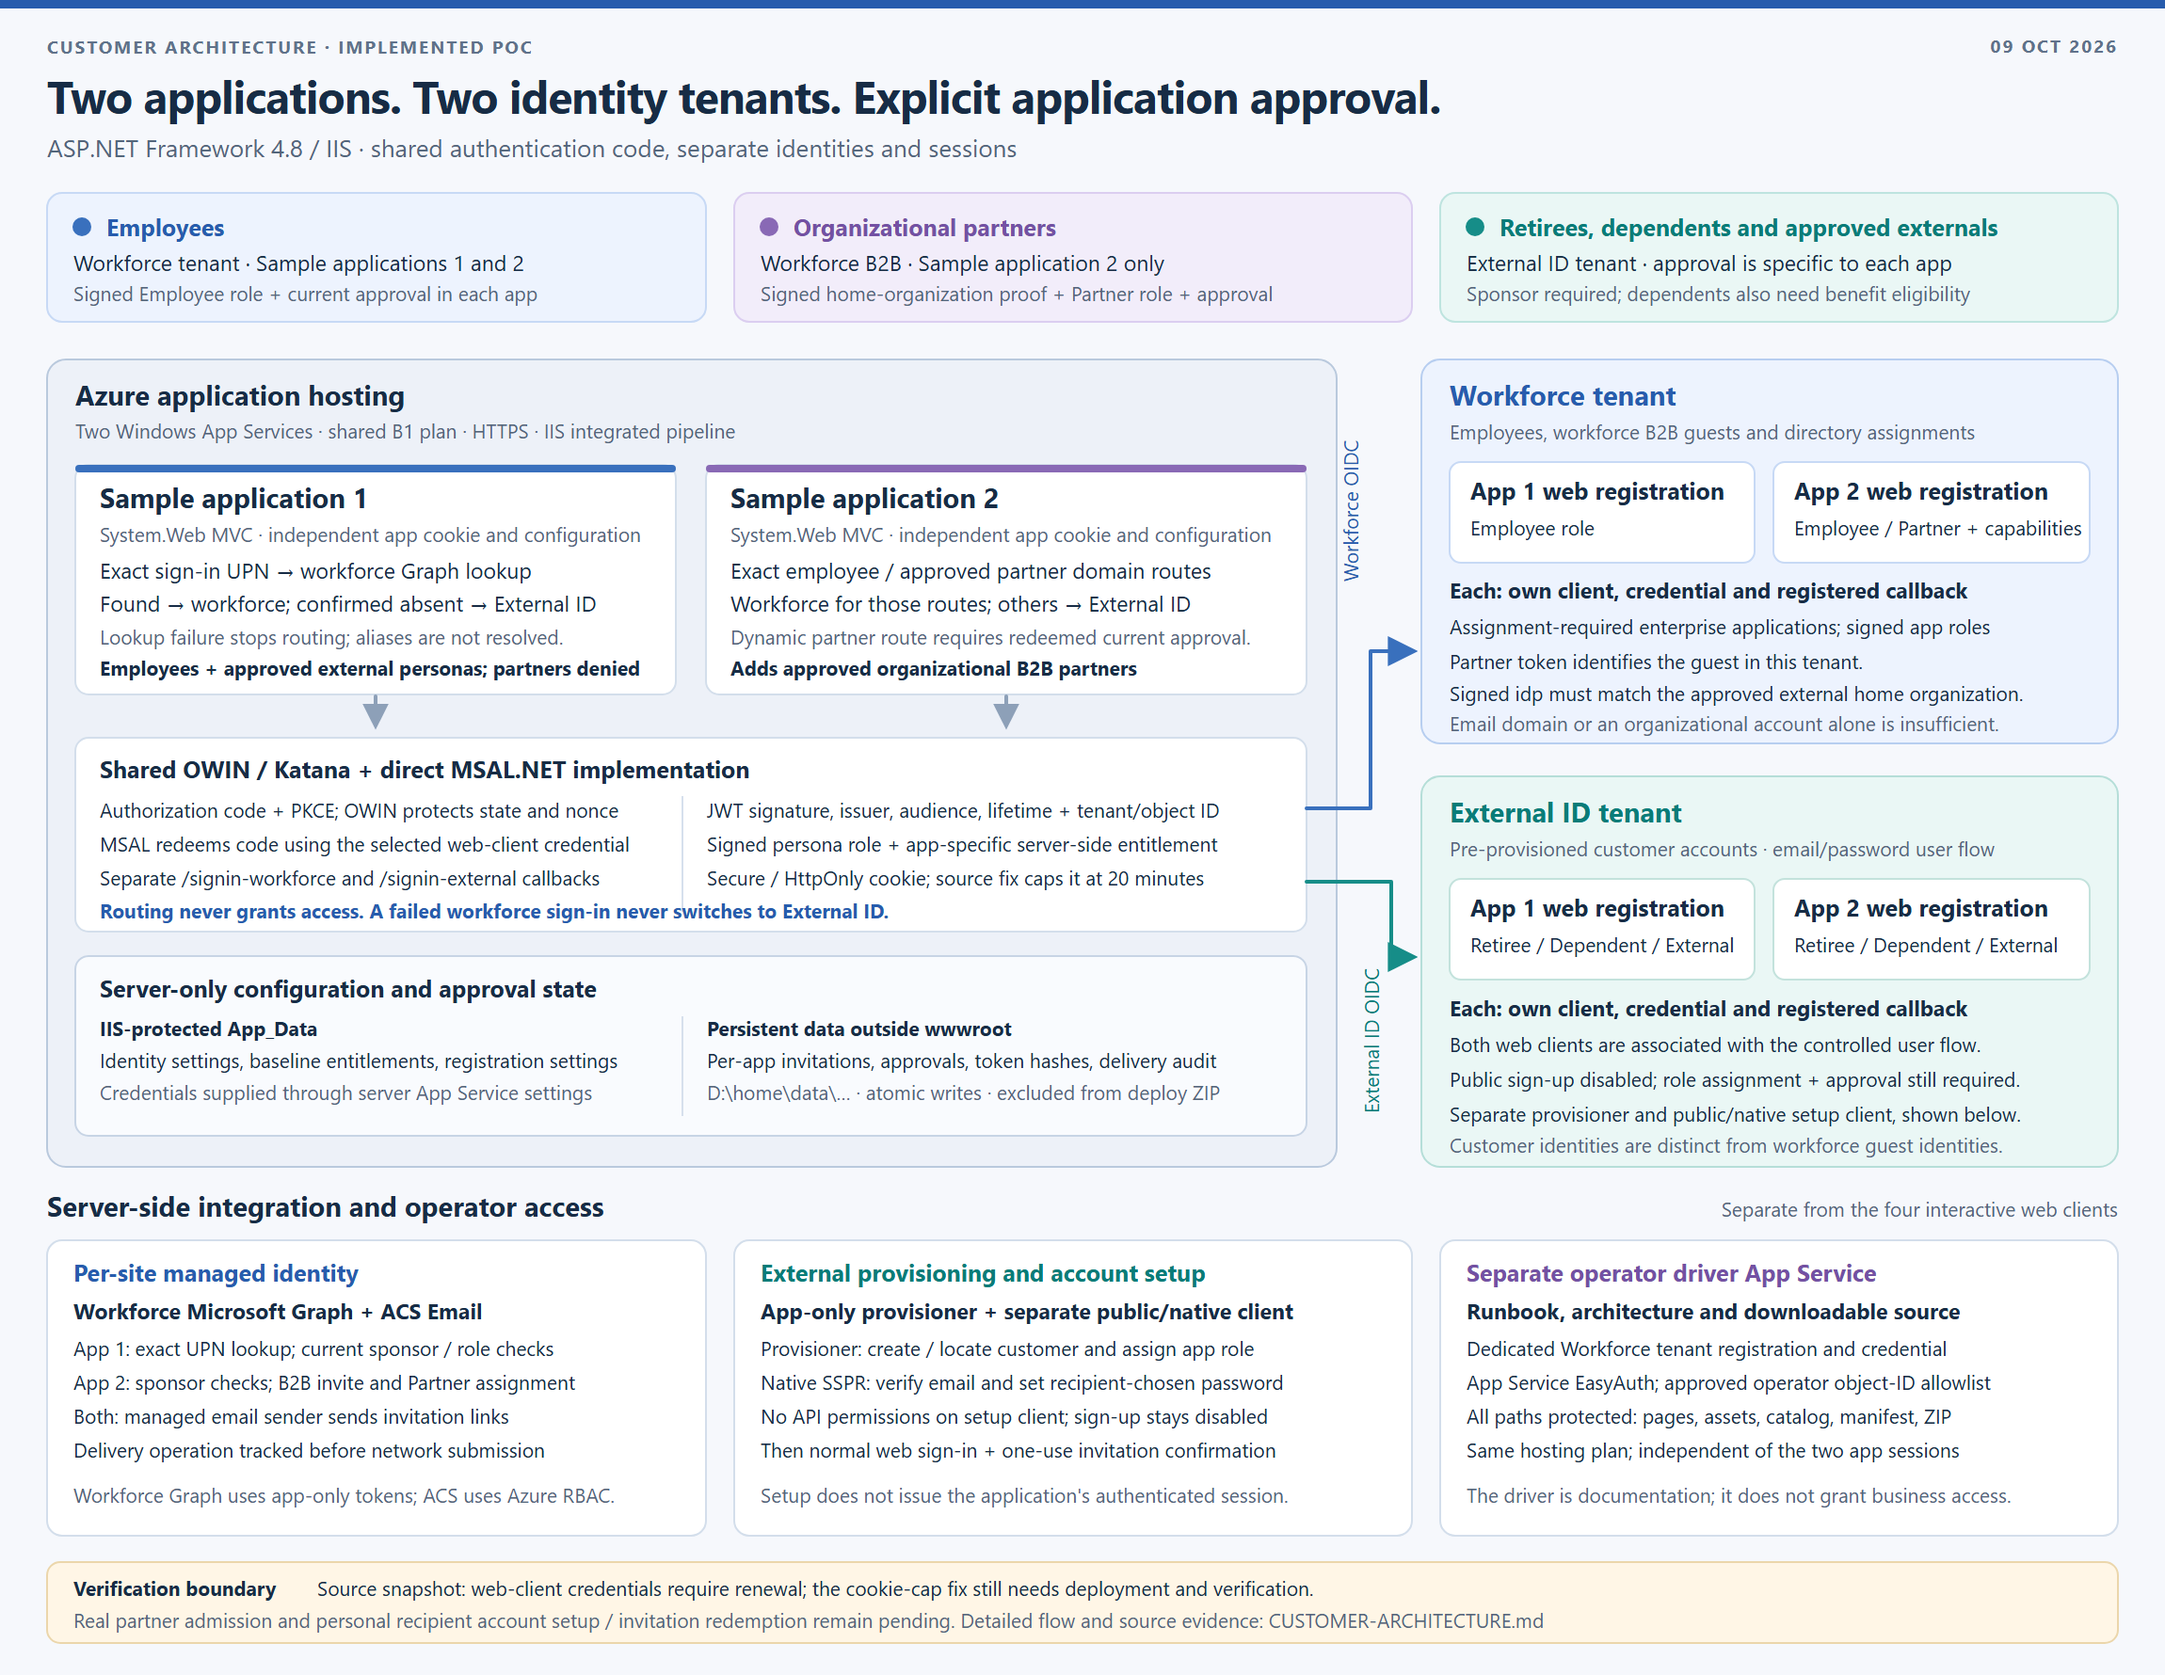
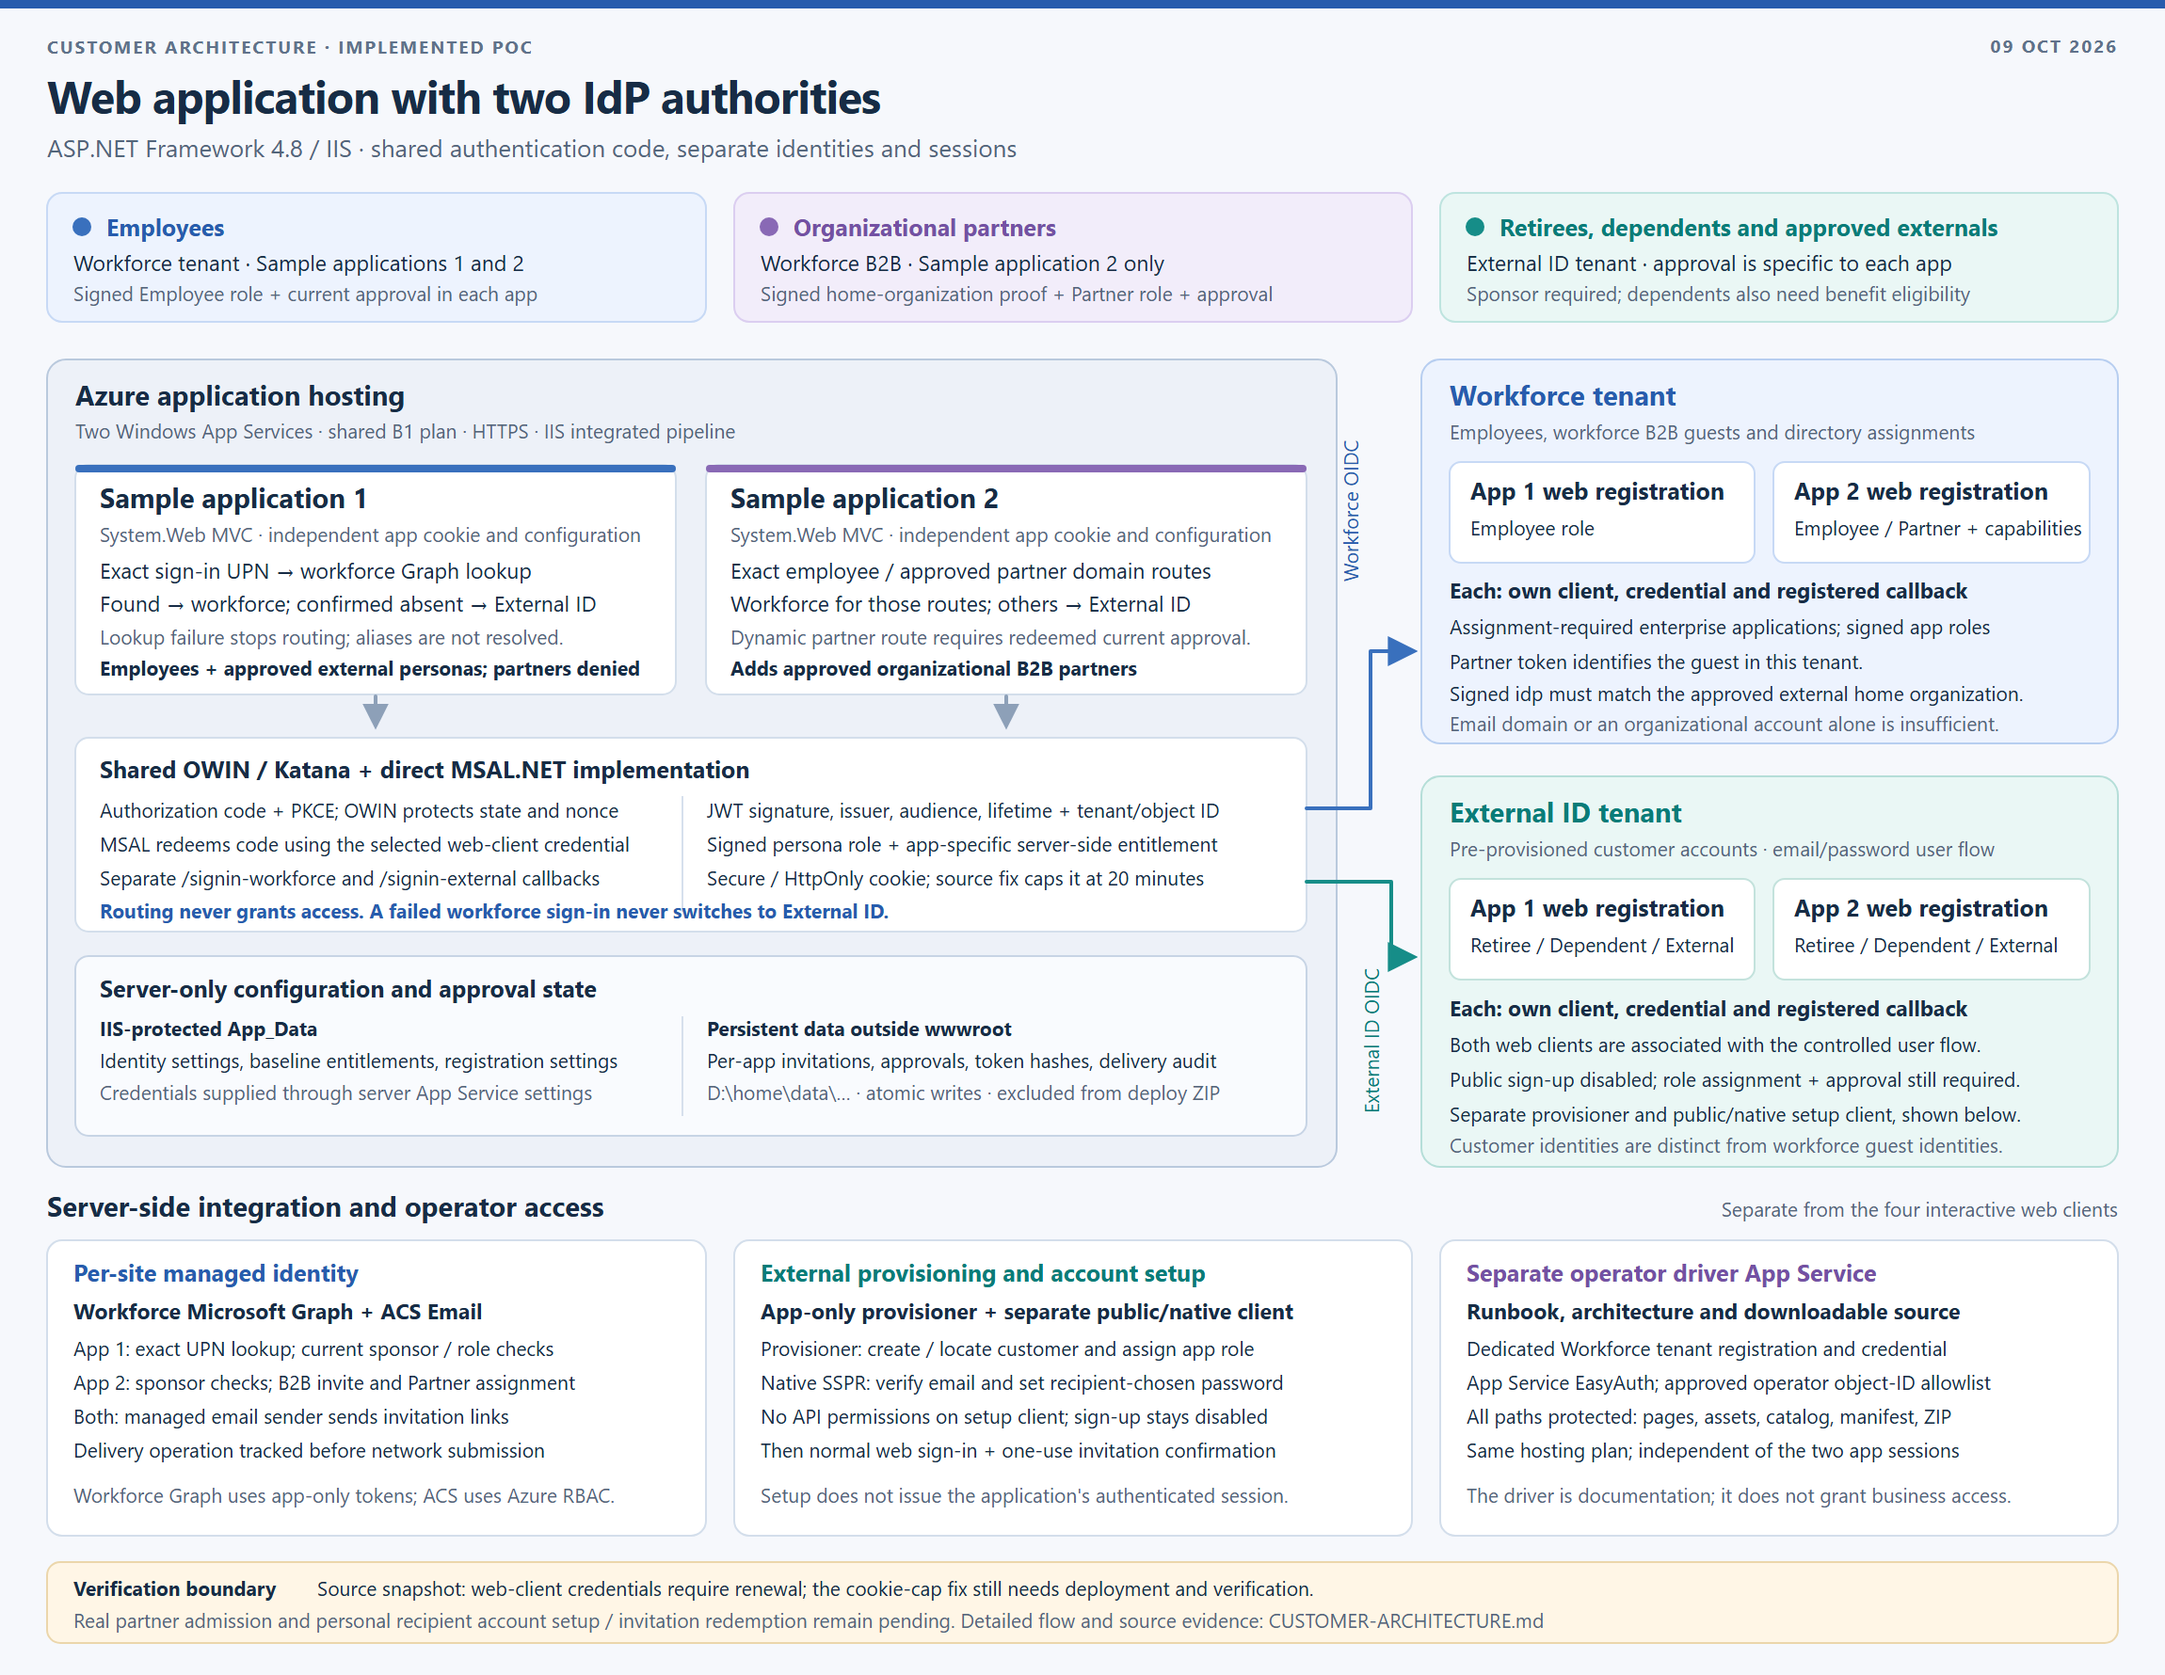
Fix clean Framework restores and use requested architecture title

Changed region(s): [[0.0309, 0.0309, 0.6483, 0.0927]]

diff --git a/docs/CUSTOMER-ARCHITECTURE.md b/docs/CUSTOMER-ARCHITECTURE.md
@@ -1,4 +1,4 @@
-# Implemented customer identity PoC architecture
+# Web application with two IdP authorities
 
 Documentation snapshot: **9 October 2026**. This document describes the implemented **ASP.NET Framework 4.8 / IIS PoC**, its deployment scripts and its security boundaries. It does not attest to the current state of live resources. The separate ASP.NET Core sample in this repository is outside this diagram's scope.
 
